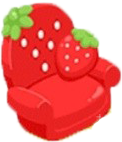
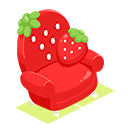
Revise
・画像からWebフォント読み込みに変更
・アニメーションの微調整
・携帯端末で閲覧時のバランスが悪かったので少し直そうとした(完全にはなおっていない)
・家具画像差し替え
・コード整形
・Alice→Arisu完全修正

diff --git a/今日作ったやつ/debut-4thaniv.html b/今日作ったやつ/debut-4thaniv.html
@@ -1,7 +1,7 @@
 <!doctype html>
 <html>
 	<head>
-	<title>Alice Tachibana Debut 4th Aniv</title>
+		<title>Arisu Tachibana Debut 4th Aniv</title>
 		<meta charset="utf-8">
     	<link href="css/style.css" rel="stylesheet" type="text/css" />
     	<link href="css/shake.css" rel="stylesheet" type="text/css" />
@@ -9,44 +9,54 @@
     	<script src="js/jquery.min.js"></script>
 	</head>
 	<body>
-	<div class="hidde">
-		<div class="first">
-			<p class="boxs" style="text-align: center; font-size: 16pt">私にプレゼントですか？…何でしょう</p>
-		</div>
-		<div id="mains">
-			<a href="javascript:void(0)" onclick="imgClick();">
-				<div id="main" class="shake shake-slow">
-					<img class="box" src="img/box.png">
-				</div>
-			</a>
-			<img class="crack" src="img/crack.png" style="display:none" >
-			<img class="flipcrack" src="img/flipcrack.png" style="display:none" >
-		</div>
-	</div>
-	<div class="imgwrap">
-		<div class="mess" style="display: none">
-			<img src="img/title.png" class="title">
-		</div>
-		<div class="ichigo" id="ni" style="display: none">
-			<img src="img/091.png">
-			<img src="img/ichigopasta.png">
-			<img src="img/067.png">
-		</div>
-			<div class="ichigoalice" id="ni" style="display: none">
-			<img src="img/277.png">
-			<img src="img/uekichang.png" style="width:4%">
-			<img src="img/ichigosofa.png">
-			<img src="img/068.png">
-		</div>
-		<div class="message" style="display: none">
-			<h2>ありすちゃんデビュー4周年おめでとう！！</h2>
-			<a href="https://twitter.com/share" class="twitter-share-button" data-size="large">Tweet</a>
-			<script>!function(d,s,id){var js,fjs=d.getElementsByTagName(s)[0],p=/^http:/.test(d.location)?'http':'https';if(!d.getElementById(id)){js=d.createElement(s);js.id=id;js.src=p+'://platform.twitter.com/widgets.js';fjs.parentNode.insertBefore(js,fjs);}}(document, 'script', 'twitter-wjs');
-			</script>
-			<div class="footer">
-				<p>Copyright © 2016 Kazukiti_28 Some Rights Reserved. </p>
+		<div class="hidde">
+			<div class="first">
+				<p class="boxs" style="text-align: center; font-size: 20pt">私にプレゼントですか？…何でしょう</p>
+			</div>
+			<div id="mains">
+				<a href="javascript:void(0)" onclick="imgClick();">
+					<div id="main" class="shake shake-slow">
+						<img class="box" src="img/box.png">
+					</div>
+				</a>
+				<img class="crack" src="img/crack.png" style="display:none" >
+				<img class="flipcrack" src="img/flipcrack.png" style="display:none" >
 			</div>
 		</div>
-	</div>
+		<div class="imgwrap">
+			<div class="mess" style="display: none">
+				<p class="title">4th Anniversary of Arisu Tachibana</p>
+			</div>
+			<div class="ichigo" id="ni" style="display: none">
+				<img src="img/091.png">
+				<img src="img/ichigopasta.png">
+				<img src="img/067.png">
+			</div>
+				<div class="ichigoarisu" id="ni" style="display: none">
+				<img src="img/277.png">
+				<img src="img/uekichang.png" style="width:4%">
+				<img src="img/ichigosofa.png">
+				<img src="img/068.png">
+			</div>
+			<div class="message" style="display: none">
+				<h2>ありすちゃんデビュー4周年おめでとう！！</h2>
+				<a href="https://twitter.com/share" class="twitter-share-button" data-size="large">Tweet</a>
+				<script>!function(d,s,id){var js,fjs=d.getElementsByTagName(s)[0],p=/^http:/.test(d.location)?'http':'https';if(!d.getElementById(id)){js=d.createElement(s);js.id=id;js.src=p+'://platform.twitter.com/widgets.js';fjs.parentNode.insertBefore(js,fjs);}}(document, 'script', 'twitter-wjs');
+				</script>
+				<div class="footer">
+					<p>Copyright © 2016 Kazukiti_28 Some Rights Reserved. </p>
+				</div>
+			</div>
+		</div>
+		<script>
+			  (function(d) {
+			    var config = {
+			      kitId: 'veo8jte',
+			      scriptTimeout: 3000,
+			      async: true
+			    },
+			    h=d.documentElement,t=setTimeout(function(){h.className=h.className.replace(/\bwf-loading\b/g,"")+" wf-inactive";},config.scriptTimeout),tk=d.createElement("script"),f=false,s=d.getElementsByTagName("script")[0],a;h.className+=" wf-loading";tk.src='https://use.typekit.net/'+config.kitId+'.js';tk.async=true;tk.onload=tk.onreadystatechange=function(){a=this.readyState;if(f||a&&a!="complete"&&a!="loaded")return;f=true;clearTimeout(t);try{Typekit.load(config)}catch(e){}};s.parentNode.insertBefore(tk,s)
+			  })(document);
+		</script>
 	</body>
 </html>

diff --git a/今日作ったやつ/js/click.js b/今日作ったやつ/js/click.js
@@ -1,28 +1,28 @@
 function imgClick() {
 	$("#main").animate({
 		'top':'-1000px'
-	});//箱制御
+	});
 	$(".first").fadeOut(500);
 
 	$(".crack").fadeIn(1000);
-	$('.crack').animate({"left": "-=720px", "top": "390px"}, 1400);//クラッカー制御
-
-
+	$('.crack').animate({
+		"left": "-=720px", "top": "270px"
+	},1400);
 	setTimeout(function(){
 		$(".flipcrack").fadeIn(1000);
-		$('.flipcrack').animate({"left": "720px", "top": "390px"}, 1200);//クラッカー制御
+		$('.flipcrack').animate({
+			"left": "720px", "top": "270px"
+		},1200);
 	},1500);
-
-	$("#main").fadeOut(1);//後処理
+	$("#main").fadeOut(1);
 	setTimeout(function(){
-		$(".ichigoalice").fadeIn(300);
+		$(".ichigoarisu").fadeIn(300);
 	},3000);
 	setTimeout(function(){
 		$(".ichigo").fadeIn(300);
 	},2000);
-	//右側に出す
 	setTimeout(function(){
-		$(".mess").fadeIn(300);
+		$(".mess").fadeIn(1000);
 	},1000);
 		setTimeout(function(){
 		$(".message").fadeIn(600);

diff --git a/今日作ったやつ/css/style.css b/今日作ったやつ/css/style.css
@@ -1,5 +1,5 @@
 body {
-    font-family: "Source Sans Pro","ヒラギノ角ゴ Pro W3", "Hiragino Kaku Gothic ProNfont-family: Arial, Roboto, “Droid Sans”, “游ゴシック”, YuGothic, “ヒラギノ角ゴ ProN W3”, “Hiragino Kaku Gothic ProN”, “メイリオ”, Meiryo, sans-serif;", "メイリオ", Meiryo,"ＭＳ Ｐゴシック", "MS PGothic", sans-serif;
+    font-family: "a-otf-ud-shin-maru-go-pr6n","ヒラギノ角ゴ Pro W3", "Hiragino Kaku Gothic ProNfont-family: Arial, Roboto, “Droid Sans”, “游ゴシック”, YuGothic, “ヒラギノ角ゴ ProN W3”, “Hiragino Kaku Gothic ProN”, “メイリオ”, Meiryo, sans-serif;", "メイリオ", Meiryo,"ＭＳ Ｐゴシック", "MS PGothic", sans-serif;
     margin-right: auto;
     margin-left: auto;
     margin-top: 0px;
@@ -56,6 +56,7 @@ html{
 	margin-top: 4%
 }
 .title{
-	width:52%;
+	
 	margin-bottom:2%;
+	font-size: 40px;
 }
